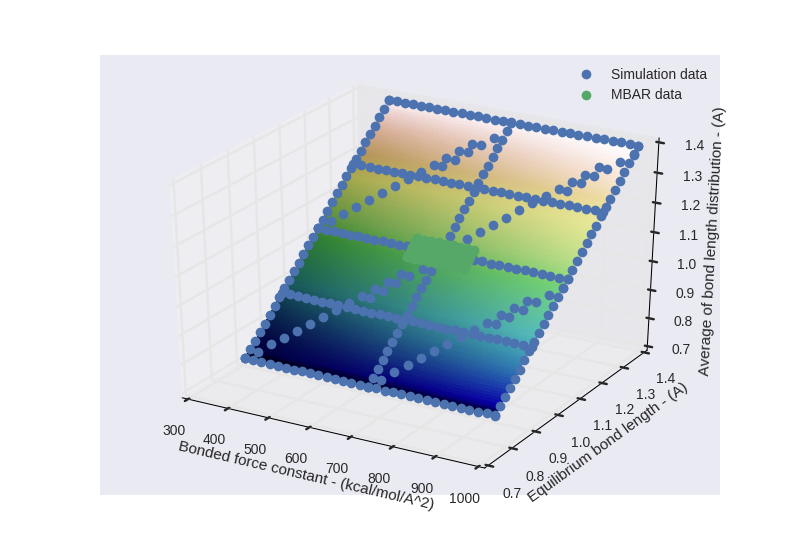
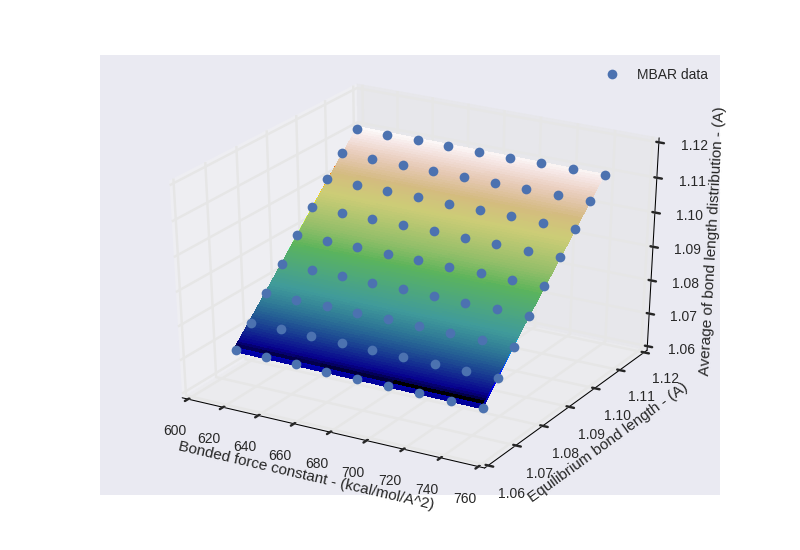
MBAR plots

diff --git a/single-molecule-property-generation/graph_bl.py b/single-molecule-property-generation/graph_bl.py
@@ -112,6 +112,8 @@ zz_var = np.reshape(np.dot(GG, m_var), xx.shape)
 GGm = poly_matrix(xxm.ravel(), yym.ravel(), ordr)
 zz_avm = np.reshape(np.dot(GGm, m_avm), xxm.shape)
 zz_varm = np.reshape(np.dot(GGm, m_varm), xxm.shape)
+zz_avcheck =  np.reshape(np.dot(GGm, m_av), xxm.shape)
+zz_varcheck = np.reshape(np.dot(GGm, m_var), xxm.shape)
 
 zz_av_comp = m_av[0] + m_av[1]*yy + m_av[2]*yy**2 + m_av[3]*xx + m_av[4]*xx*yy + m_av[5]*xx*(yy**2) + m_av[6]*xx**2 + m_av[7]*(xx**2)*yy + m_av[8]*(xx**2)*(yy**2)
 
@@ -140,18 +142,18 @@ zz_var_unc = np.apply_along_axis(np.var,0,zz_var_comp_boots)
 # Plotting (see http://matplotlib.org/examples/mplot3d/custom_shaded_3d_surface.html):
 fg, ax = plt.subplots(subplot_kw=dict(projection='3d'))
 ls = LightSource(270, 45)
-rgb = ls.shade(zz_av, cmap=cm.gist_earth, vert_exag=0.1, blend_mode='soft')
+rgb = ls.shade(zz_avcheck, cmap=cm.gist_earth, vert_exag=0.1, blend_mode='soft')
 rgbm = ls.shade(zz_avm, cmap=cm.jet, vert_exag=0.1, blend_mode='soft')
 #heatmap = ax.pcolor(zz_av, cmap=rgb)                  
 #plt.colorbar(mappable=heatmap)    # put the major ticks at the middle of each cell
-surf = ax.plot_surface(xx, yy, zz_av, rstride=1, cstride=1, facecolors=rgb,
+surf = ax.plot_surface(xxm, yym, zz_avcheck, rstride=1, cstride=1, facecolors=rgb,
                        linewidth=0, antialiased=False, shade=False)
 surf1 = ax.plot_surface(xxm, yym, zz_avm, rstride=1, cstride=1, facecolors=rgbm,
                         linewidth=0, antialiased=False, shade=False)
 ax.set_xlabel('Bonded force constant - (kcal/mol/A^2)')
 ax.set_ylabel('Equilibrium bond length - (A)')
 ax.set_zlabel('Average of bond length distribution - (A)')
-ax.plot3D(x_av, y_av, z_av, "o",label="Simulation data")
+#ax.plot3D(x_av, y_av, z_av, "o",label="Simulation data")
 ax.plot3D(x_avm,y_avm,z_avm,"o",label="MBAR data")
 #ax.set_xlim([x_avm.min(),x_avm.max()])
 #ax.set_ylim([y_avm.min(),y_avm.max()])
@@ -173,7 +175,7 @@ zz_var_unc_arr = np.vstack(zz_var_unc.flatten()).T[0]
 
 fg.canvas.draw()
 plt.savefig('bond_length_average_vs_k_length_w_fit.png')
-
+sys.exit()
 
 # Plotting (see http://matplotlib.org/examples/mplot3d/custom_shaded_3d_surface.html):
 fg, ax = plt.subplots(subplot_kw=dict(projection='3d'))
